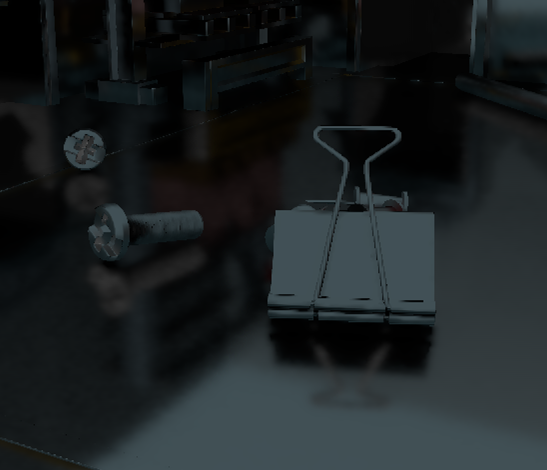
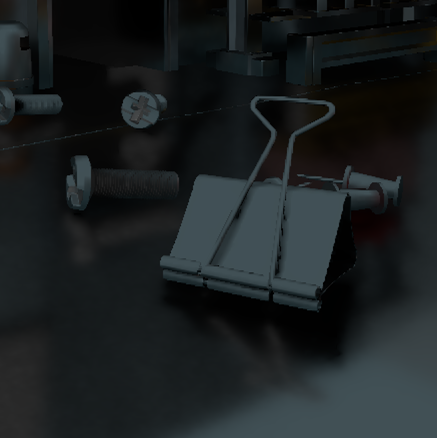
update readme

diff --git a/README.md b/README.md
@@ -4,9 +4,9 @@
 
 **University of Pennsylvania, CIS 565: GPU Programming and Architecture Final Project**
 
-- [Shenyue Chen](https://github.com/EvsChen)
-- [Szeyu Chan](https://github.com/AsteriskChan)
-- [Zijing Peng](https://github.com/ZijingPeng)
+- Shenyue Chen  [Email](mailto:shenyuec@seas.upenn.edu)  [GitHub](https://github.com/EvsChen)  [LinkedIn](https://www.linkedin.com/in/shenyue-chen-5b2728119/)
+- Szeyu Chan  [Email](mailto:sychan@seas.upenn.edu)  [GitHub](https://github.com/AsteriskChan)  [LinkedIn](https://www.linkedin.com/in/szeyuchan11/)
+- Zijing Peng  [Email](mailto:zijingp@seas.upenn.edu)  [GitHub](https://github.com/ZijingPeng)  [LinkedIn](https://www.linkedin.com/in/zijing-peng/)
 
 ## Introduction
 
@@ -28,7 +28,7 @@ This project is to implement a hybrid rendering pipeline that combines both rast
 
 Shadows are implemented by launching rays towards the light source. To create soft penumbra shadows, we cast rays by sampling in the shape of a cone.
 
-| Hard Shadow              | Soft Shadow (100 spp) |
+| Hard Shadow              | Soft Shadow (1 spp) |
 | ------------------------ | --------------------- |
 | ![](/img/hardshadow.png) |  ![](/img/softshadow.png)   |
 
@@ -46,7 +46,7 @@ We did not implement global illumination in this project, ambient occlusion is u
 | ---------------- | ---------------------- |
 | ![](/img/ao.png) | ![](/img/ao_svgf.png)  |
 
-To improve the performance, we merge the shadow buffer and the AO buffer and add the filter.
+To improve the performance, we merge the shadow buffer and the AO buffer into one buffer and then add the filter.
 
 ### Reflection
 
@@ -72,11 +72,12 @@ We also tried to improve the performance by launching a quarter ray per pixel. I
 
 ## Credit
 
+- [Hybrid Rendering for Real-Time Ray Tracing](https://link.springer.com/chapter/10.1007/978-1-4842-4427-2_25), Colin Barré-Brisebois, Henrik Halén, Graham Wihlidal, Andrew Lauritzen, Jasper Bekkers, Tomasz Stachowiak and Johan Andersson. *Ray Tracing Gems*.
 - [GDC Talk: Shiny Pixels and Beyond: Real-Time Raytracing at SEED](https://www.gdcvault.com/play/1024801/-Real-time-Raytracing-for) 
-- [Hybrid Rendering for Real-Time Ray Tracing](https://link.springer.com/chapter/10.1007/978-1-4842-4427-2_25)
-- [Falcor](https://github.com/NVIDIAGameWorks/Falcor)
-- [Introduction To DirectX Raytracing](http://cwyman.org/code/dxrTutors/dxr_tutors.md.html)
-- [Pica Pica Assets](https://github.com/SEED-EA/pica-pica-assets)
-- https://sketchfab.com/3d-models/mirrors-edge-apartment-interior-scene-9804e9f2fe284070b081c96ceaf8af96 by Aurélien Martel
-  
+- [Falcor](https://github.com/NVIDIAGameWorks/Falcor), a real-time rendering framework supporting DirectX 12. We used this framework to build our project.
+- [Introduction To DirectX Raytracing](http://cwyman.org/code/dxrTutors/dxr_tutors.md.html), really helpful!
+- Models we use for testing:
+  - [Pica Pica Assets](https://github.com/SEED-EA/pica-pica-assets) by SEED, EA.
+  - [Mirror's Edge Apartment - Interior Scene](https://sketchfab.com/3d-models/mirrors-edge-apartment-interior-scene-9804e9f2fe284070b081c96ceaf8af96) by Aurélien Martel.
+  - [Anime Classroom](https://sketchfab.com/3d-models/anime-classroom-1375eb36d7b640bfad315e76053d63c6) by BigMiniGeek.
 
